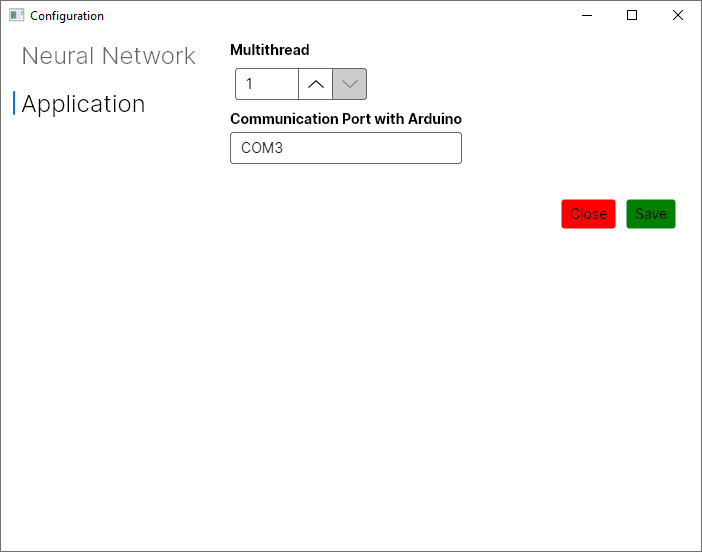
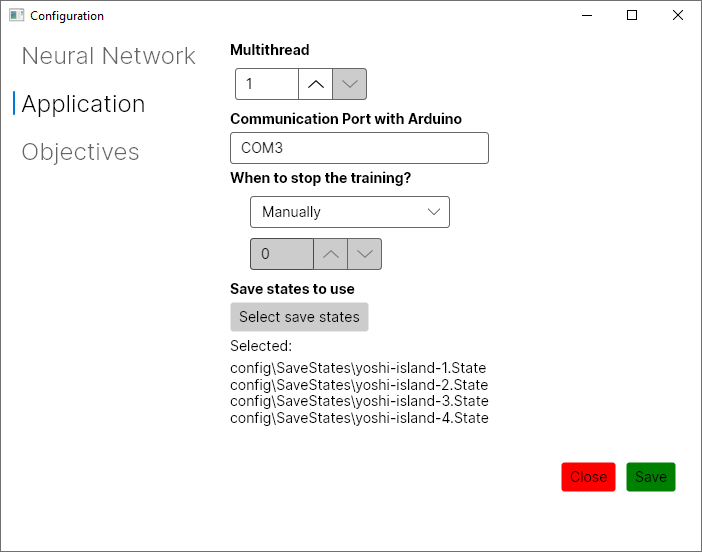
Added configuration for save states

diff --git a/SMW-ML/ViewModels/ConfigurationViewModel.cs b/SMW-ML/ViewModels/ConfigurationViewModel.cs
@@ -193,6 +193,23 @@ namespace SMW_ML.ViewModels
             }
         }
 
+        private List<string> saveStates;
+        private string saveStatePreview;
+        public string SaveStates
+        {
+            get => saveStatePreview;
+            set
+            {
+                this.RaiseAndSetIfChanged(ref saveStatePreview, value);
+                PropertyChanged?.Invoke(this, new PropertyChangedEventArgs(nameof(SaveStates)));
+            }
+        }
+        private void SetSaveStates(List<string> saveStates)
+        {
+            this.saveStates = saveStates;
+            SaveStates = string.Join("\n", saveStates);
+        }
+
         public List<ScoreFactorViewModel>? Objectives { get; set; }
 
 
@@ -224,6 +241,7 @@ namespace SMW_ML.ViewModels
             ErrorList = new ObservableCollection<Error>();
             PropertyChanged += HandlePropertyChanged;
             ScoreFactors = new List<IScoreFactor>();
+            saveStates = new List<string>();
 
             //Initialize the properties with the current config
             if (!Design.IsDesignMode)
@@ -305,6 +323,7 @@ namespace SMW_ML.ViewModels
             ApplicationConfig.ArduinoCommunicationPort = ArduinoPort!;
             ApplicationConfig.StopTrainingCondition = StopTrainingSelectedItem!;
             ApplicationConfig.StopTrainingConditionValue = StopTrainingConditionValue;
+            ApplicationConfig.SaveStates = saveStates;
 
             //Tab Objectives
             for (int i = 0; i < Objectives!.Count; i++)
@@ -351,12 +370,35 @@ namespace SMW_ML.ViewModels
             StopTrainingSelectedItem = ApplicationConfig.StopTrainingCondition;
             StopTrainingConditionValue = ApplicationConfig.StopTrainingConditionValue;
 
+            SetSaveStates(ApplicationConfig.SaveStates);
+
             //Tab Objectives
             Objectives = new List<ScoreFactorViewModel>();
             foreach (var obj in ApplicationConfig.ScoreFactors)
             {
                 Objectives.Add(new(obj));
             }
+        }
+
+        public async void SelectSaveStates()
+        {
+            OpenFileDialog fileDialog = new();
+            fileDialog.Filters.Add(new FileDialogFilter() { Name = "Save states", Extensions = { "State" } });
+            fileDialog.AllowMultiple = true;
+            fileDialog.Directory = Path.GetFullPath("./config/SaveStates");
+
+            string[]? paths = await fileDialog.ShowAsync(ViewLocator.GetMainWindow());
+
+            List<string> saveStates = new List<string>();
+            if (paths == null)
+            {
+                return;
+            }
+            foreach (string path in paths)
+            {
+                saveStates.Add(path);
+            }
+            SetSaveStates(saveStates);
         }
 
         #region Validation
@@ -369,6 +411,7 @@ namespace SMW_ML.ViewModels
             ValidateArduinoPort();
             ValidateStopTrainingCondition();
             ValidateStopTrainingValue();
+            ValidateSaveStates();
         }
 
         private void ValidateSpeciesCount()
@@ -454,6 +497,18 @@ namespace SMW_ML.ViewModels
                 {
                     FieldError = "Stop Training Condition",
                     Description = "You must select a stop training condition."
+                });
+            }
+        }
+
+        private void ValidateSaveStates()
+        {
+            if (!saveStates.Any())
+            {
+                ErrorList.Add(new Error()
+                {
+                    FieldError = "Save States",
+                    Description = "You must select at least one save state for training"
                 });
             }
         }

diff --git a/SMW-ML/Neural/Training/SharpNeat/SMWPhenomeEvaluator.cs b/SMW-ML/Neural/Training/SharpNeat/SMWPhenomeEvaluator.cs
@@ -8,6 +8,7 @@ using SMW_ML.Models.Config;
 using SMW_ML.Neural.Scoring;
 using SMW_ML.Utils.SharpNeat;
 using System;
+using System.IO;
 using static SMW_ML.Utils.ReflectionTool;
 
 namespace SMW_ML.Neural.Training.SharpNeatImpl
@@ -43,11 +44,10 @@ namespace SMW_ML.Neural.Training.SharpNeatImpl
             inputSetter = emulator.GetInputSetter();
             outputGetter = emulator.GetOutputGetter();
 
-            var saveStates = emulator.GetStates();
+            var saveStates = appConfig.SaveStates;
             foreach (var state in saveStates)
             {
-                if (!state.Contains("yoshi-island-1")) continue;
-                emulator.LoadState(state);
+                emulator.LoadState(Path.GetFullPath(state));
                 emulator.NextFrame();
                 dataFetcher.NextLevel();
 

diff --git a/SMW-ML/Models/Config/ApplicationConfig.cs b/SMW-ML/Models/Config/ApplicationConfig.cs
@@ -25,6 +25,7 @@ namespace SMW_ML.Models.Config
                 new OneUpsScoreFactor() { ScoreMultiplier = 30 },
                 new HighScoreScoreFactor() { ScoreMultiplier = 1 }
             };
+            SaveStates = new List<string>();
         }
 
         public int Multithread { get; set; }
@@ -32,6 +33,7 @@ namespace SMW_ML.Models.Config
         public string StopTrainingCondition { get; set; }
         public int? StopTrainingConditionValue { get; set; }
         public List<IScoreFactor> ScoreFactors { get; set; }
+        public List<string> SaveStates { get; set; }
 
         public IEnumerable<IScoreFactor> GetScoreFactorClones()
         {

diff --git a/README.md b/README.md
@@ -77,6 +77,10 @@ When entering this page, the training of AIs will be started automatically, usin
 * **Communication Port with Arduino**
   * Communication port with an Arduino that's connected to the PC. Should be left like it is if no arduinos are connected. Used so we can preview the inputs on an actual physical controller.
   * [See ./ArduinoSNESController](ArduinoSNESController)
+* **When to stop the training**
+  * UNIMPLEMENTED
+* **Save states to use**
+  * By clicking the button, you can select the save states you want to use for training. At least one must be selected.
 
 #### Objectives
 ![Image of the objectives configuration menu](docs/config-objectives.png)
